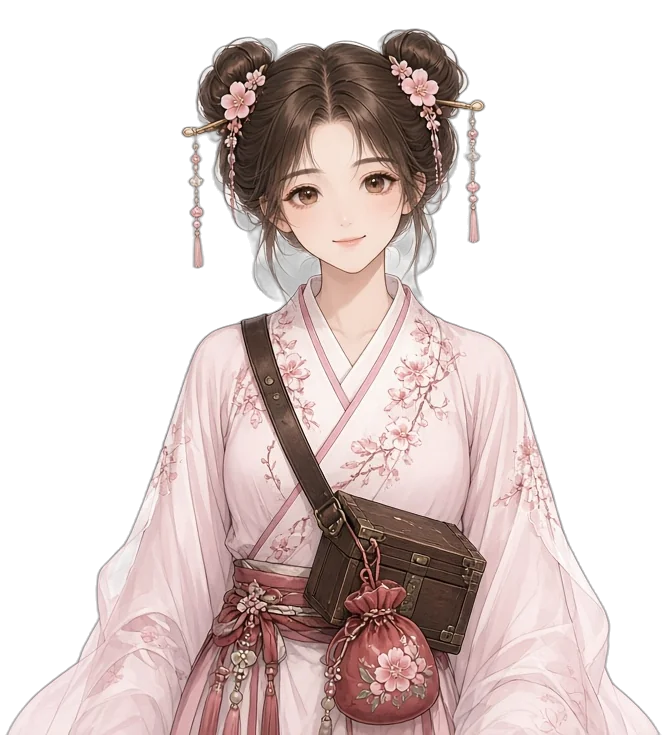
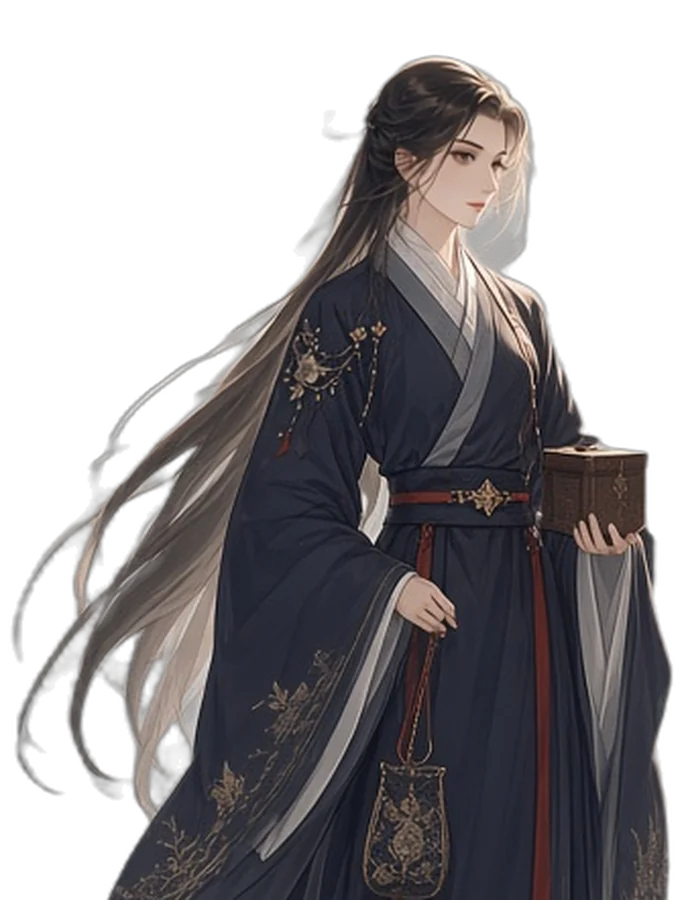
art: 女主角新立繪 女裝/男裝 + 頭像，切換測試

diff --git a/index.html b/index.html
@@ -477,7 +477,7 @@ body.kbopen #app{pointer-events:none;}
 <!-- 全屏輸入面板（沿用《秦風》M19 修正：觸控裝置點輸入框 → 覆蓋層 textarea 16px） -->
 <div id="kbp" aria-hidden="true"><div id="kbbox"><div id="kbhd"><span id="kbmode">💬說</span><span id="kbctx"></span></div><textarea id="kbta" maxlength="120" rows="4" placeholder="想說什麼、做什麼…（/設定 宣告劇情）" enterkeyhint="send"></textarea><div id="kbft"><span id="kbcnt">0/120</span><button id="kbcancel">收起</button><button id="kbsend">送出</button></div></div></div>
 <script>
-var ASSET_FILES=["bg_camp.webp","bg_clinic.webp","bg_market.webp","bg_night.webp","bg_palace.webp","bg_plum.webp","bg_study.webp","bg_tavern.webp","bg_title.webp","char_fusu.webp","char_hanfei.webp","char_heroine.webp","char_jingke.webp","char_lisi.webp","char_mengtian.webp","char_xuanye.webp","char_yingzheng.webp","face_fusu.webp","face_hanfei.webp","face_heroine.webp","face_jingke.webp","face_lisi.webp","face_mengtian.webp","face_xuanye.webp","face_yingzheng.webp"];
+var ASSET_FILES=["bg_camp.webp","bg_clinic.webp","bg_market.webp","bg_night.webp","bg_palace.webp","bg_plum.webp","bg_study.webp","bg_tavern.webp","bg_title.webp","char_fusu.webp","char_hanfei.webp","char_heroine.webp","char_heroine_m.webp","char_jingke.webp","char_lisi.webp","char_mengtian.webp","char_xuanye.webp","char_yingzheng.webp","face_fusu.webp","face_hanfei.webp","face_heroine.webp","face_heroine_m.webp","face_jingke.webp","face_lisi.webp","face_mengtian.webp","face_xuanye.webp","face_yingzheng.webp"];
 /* ---- 01_data.js ---- */
 /* ===== 青囊·秦心 v2 · 資料：時間、地點、物品、病例、人物、職業、遺傳 ===== */
 var GAME_TITLE='青囊·秦心';
@@ -1017,7 +1017,7 @@ var ART={cache:{}};
  /* 取得圖：回傳 HTML（優先圖檔） */
 /* 背景圖焦點（直向畫面 object-fit:cover 只見約 26% 闊度；值為 object-position x%） */
  /* 立繪臉部中心（圖寬%、圖高%）：用來令臉置中、圖鑑卡裁切 */
- ART.FACE={yingzheng:[42,32],mengtian:[41,27],lisi:[44,29],fusu:[42,31],hanfei:[44,29],jingke:[44,29],xuanye:[37,27],heroine:[52,29]};
+ ART.FACE={yingzheng:[42,32],mengtian:[41,27],lisi:[44,29],fusu:[42,31],hanfei:[44,29],jingke:[44,29],xuanye:[37,27],heroine:[66,20],heroine_m:[50,27]};
  ART.BGPOS={clinic:66,palace:50,plum:43,market:43,camp:66,night:39,study:57,tavern:74,title:77};
  ART.html=function(kind,id,expr){
   var key=kind==='bg'?'bg_'+id:(kind==='cg'?'cg_'+id:'char_'+id+(expr&&expr!=='normal'?'_'+expr:''));

diff --git a/t/portrait.js b/t/portrait.js
@@ -1,0 +1,10 @@
+/* v4 女主角立繪：女裝／男裝切換 */
+const L=require('./lib');const eng=process.argv[2]||'chromium';const sfx=process.argv[3]||'';
+(async()=>{const p=await L.open({eng:L[eng],settings:{typer:false}});const ok=[],fail=[];const A=(c,m)=>{(c?ok:fail).push(m);console.log(c?'ok  ':'FAIL',m);};
+ await p.click('#tNew');await p.waitForTimeout(100);await p.click('[data-act="suG"][data-v="f"]');await p.waitForTimeout(60);await p.click('[data-act="suGo"]');await p.waitForTimeout(300);await L.flush(p);
+ const show=async()=>{await p.evaluate(()=>{S.queue=[];var me=pc();UI.present(Eng.L([[me.id,'（'+(S.disg&&S.disg.as==='m'?'一身男裝':'女兒裝束')+'）']],me.id,S.place,[{t:'繼續',go:'place'}]));});await p.waitForTimeout(700);
+  return p.evaluate(()=>{var im=[].slice.call(document.querySelectorAll('img.pimg')).filter(i=>i.offsetParent);var a=document.querySelector('img[src*="face_heroine"]');return {pt:pc().portrait,src:im.map(i=>(i.getAttribute('src')||'').slice(0,40)),ld:im.map(i=>i.complete&&i.naturalWidth),av:ART.avatar?String(ART.avatar(pc())).indexOf(pc().portrait==='heroine_m'?'face_heroine_m':'face_heroine')>=0:true};});};
+ const f=await show();A(f.pt==='heroine'&&f.ld.some(w=>w>0)&&f.av,'女裝立繪 '+JSON.stringify(f));await L.shot(p,'v4_portrait_f'+sfx);
+ await p.evaluate(()=>{S.disg=S.disg||{};S.disg.kit=1;UI.go('wear',{g:'m'});});await L.flush(p);const m=await show();A(m.pt==='heroine_m'&&m.ld.some(w=>w>0)&&m.av,'男裝立繪 '+JSON.stringify(m));await L.shot(p,'v4_portrait_m'+sfx);
+ await p.evaluate(()=>UI.go('wear',{g:'f'}));await L.flush(p);const b=await show();A(b.pt==='heroine','換回女裝 '+b.pt);
+ console.log(eng,'portrait',ok.length+'/'+(ok.length+fail.length));await p.context().browser().close();process.exit(fail.length?1:0);})().catch(e=>{console.error(e);process.exit(1);});

diff --git a/src/03_art.js b/src/03_art.js
@@ -202,7 +202,7 @@ var ART={cache:{}};
  /* 取得圖：回傳 HTML（優先圖檔） */
 /* 背景圖焦點（直向畫面 object-fit:cover 只見約 26% 闊度；值為 object-position x%） */
  /* 立繪臉部中心（圖寬%、圖高%）：用來令臉置中、圖鑑卡裁切 */
- ART.FACE={yingzheng:[42,32],mengtian:[41,27],lisi:[44,29],fusu:[42,31],hanfei:[44,29],jingke:[44,29],xuanye:[37,27],heroine:[52,29]};
+ ART.FACE={yingzheng:[42,32],mengtian:[41,27],lisi:[44,29],fusu:[42,31],hanfei:[44,29],jingke:[44,29],xuanye:[37,27],heroine:[66,20],heroine_m:[50,27]};
  ART.BGPOS={clinic:66,palace:50,plum:43,market:43,camp:66,night:39,study:57,tavern:74,title:77};
  ART.html=function(kind,id,expr){
   var key=kind==='bg'?'bg_'+id:(kind==='cg'?'cg_'+id:'char_'+id+(expr&&expr!=='normal'?'_'+expr:''));

diff --git a/tools/art.py b/tools/art.py
@@ -10,15 +10,22 @@ from PIL import Image
 from rembg import remove,new_session
 os.chdir(os.path.join(os.path.dirname(os.path.abspath(__file__)),'..'))
 # 縮圖方框座標（與 src/03_art.js ART.FACE 同步維護；ART.FACE 用圖寬/圖高 %）
-FACE={'yingzheng':(.42,.32),'mengtian':(.41,.25),'lisi':(.44,.29),'fusu':(.42,.31),'hanfei':(.44,.29),'jingke':(.45,.29),'xuanye':(.40,.27),'heroine':(.52,.29)}
+# 全身圖只保留上半身（佔人物高度比例）
+HALF={'heroine':0.60,'heroine_m':0.60}
+ONLY=sys.argv[1:]
+FACE={'yingzheng':(.42,.32),'mengtian':(.41,.25),'lisi':(.44,.29),'fusu':(.42,.31),'hanfei':(.44,.29),'jingke':(.45,.29),'xuanye':(.40,.27),'heroine':(.63,.20),'heroine_m':(.50,.27)}
 sess=new_session('isnet-anime')
 for f in sorted(glob.glob('assets/raw/char_*.jpg')):
     cid=os.path.basename(f)[5:-4]
+    if ONLY and cid not in ONLY:continue
     im=remove(Image.open(f).convert('RGB'),session=sess).convert('RGBA')
     a=im.getchannel('A').point(lambda v:0 if v<12 else (255 if v>243 else v));im.putalpha(a)
     x0,y0,x1,y1=a.point(lambda v:255 if v>24 else 0).getbbox();pad=max(10,int((y1-y0)*.04))
+    if cid in HALF:
+        y1=y0+int((y1-y0)*HALF[cid]);x0,_,x1,_=a.crop((0,y0,im.width,y1)).point(lambda v:255 if v>24 else 0).getbbox()
     x0=max(0,x0-6);x1=min(im.width,x1+6);top=max(0,y0-pad)
     crop=im.crop((x0,top,x1,y1));c=Image.new('RGBA',(x1-x0,crop.height+pad-(y0-top)),(0,0,0,0));c.alpha_composite(crop,(0,c.height-crop.height))
+    if cid in HALF and c.height<900:c=c.resize((int(c.width*900/c.height),900),Image.LANCZOS)  # 原圖人物細，放大
     out='assets/char_%s.webp'%cid;q=85
     while True:
         c.save(out,'WEBP',quality=q,method=6)
@@ -31,6 +38,6 @@ for f in sorted(glob.glob('assets/raw/char_*.jpg')):
         b=(int(cx-side/2),int(cy-side/2),int(cx+side/2),int(cy+side/2))
         fc=Image.new('RGBA',(int(side),int(side)),(0,0,0,0));fc.alpha_composite(c.crop((max(0,b[0]),max(0,b[1]),b[2],b[3])),(max(0,-b[0]),max(0,-b[1])))
         fc.resize((192,192),Image.LANCZOS).save('assets/face_%s.webp'%cid,'WEBP',quality=85,method=6)
-for f in sorted(glob.glob('assets/raw/bg_*.jpg')):
+for f in ([] if ONLY else sorted(glob.glob('assets/raw/bg_*.jpg'))):
     k=os.path.basename(f)[:-4];Image.open(f).convert('RGB').save('assets/%s.webp'%k,'WEBP',quality=80,method=6)
     print('assets/%s.webp'%k,os.path.getsize('assets/%s.webp'%k)//1024,'KB')
